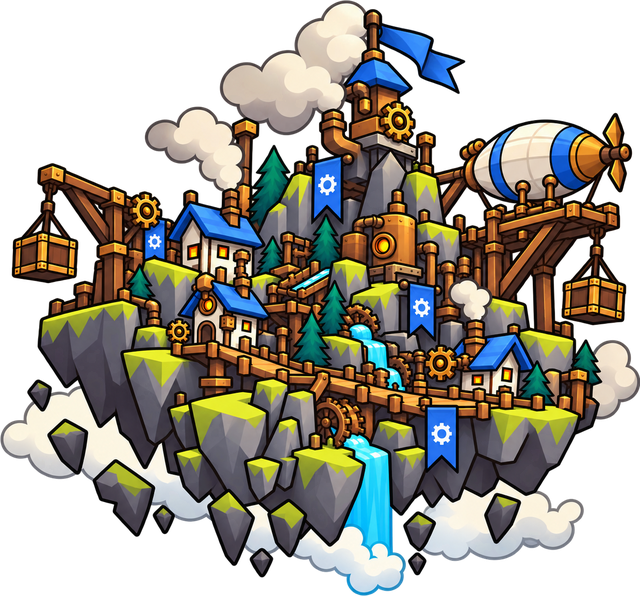
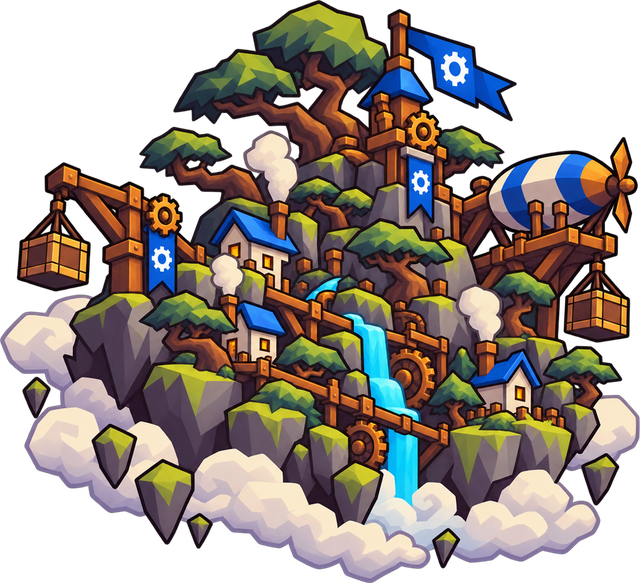
Actualizacion 27/10/2026 22:58:38,60

diff --git a/index.html b/index.html
@@ -9,7 +9,7 @@
      existe para tomar el control del gesto. -->
 <meta name="viewport" content="width=device-width, initial-scale=1.0, maximum-scale=1.0, user-scalable=no, viewport-fit=cover">
 <title>Gnomore Gnomes</title>
-<link rel="stylesheet" href="css/style.css?v=1793600800">
+<link rel="stylesheet" href="css/style.css?v=1793601000">
 <link rel="stylesheet" href="css/mobile.css?v=1793502810">
 <link rel="stylesheet" href="assets/fonts/phosphor/regular.css">
 <link rel="stylesheet" href="assets/fonts/phosphor/light.css">
@@ -108,7 +108,7 @@
          de juego de rol" — contenedor propio (no .option-list, pensado
          para la lista vertical y estrecha de modo/rivales) para las
          tarjetas de raza, más anchas y en fila (ver .race-card-list en
-         css/style.css?v=1793600800 y renderRaceCard en js/newgame-flow.js). -->
+         css/style.css?v=1793601000 y renderRaceCard en js/newgame-flow.js). -->
     <div class="race-card-list" id="race-list"></div>
   </main>
 
@@ -168,7 +168,7 @@
   <script src="js/tooltip.js?v=1791042260"></script>
   <script src="js/attackcursor.js?v=1793000010"></script>
   <script src="js/shadows.js?v=1793500040"></script>
-  <script src="js/units.js?v=1793600800"></script>
+  <script src="js/units.js?v=1793601000"></script>
   <script src="js/bloodsplat.js?v=1791412743"></script>
   <script src="js/movement.js?v=1791413601"></script>
   <script src="js/combat.js?v=1791412743"></script>
@@ -208,7 +208,7 @@
   <script src="js/abilities.js?v=1791500005"></script>
   <script src="js/actionbtn-feedback.js?v=1793501300"></script>
   <script src="js/abilities-surcanubes.js?v=1793200006"></script>
-  <script src="js/abilities-enmurallado.js?v=1793600800"></script>
+  <script src="js/abilities-enmurallado.js?v=1793601000"></script>
   <script src="js/ai-abilities.js?v=1793600100"></script>
   <script src="js/mushrooms.js?v=1793500510"></script>
   <script src="js/firebase-config.js"></script>
@@ -227,7 +227,7 @@
   <script src="js/tutorial-texts.js?v=1793502100"></script>
   <script src="js/tutorial-levels.js?v=1793501500"></script>
   <script src="js/tutorial-pad.js?v=1793502100"></script>
-  <script src="js/version.js?v=1793600800"></script>
+  <script src="js/version.js?v=1793601000"></script>
   <script src="js/menu.js?v=1793200002"></script>
   <script src="js/appupdate.js?v=1793500090"></script>
   <script src="js/assetlist.js?v=1793600100"></script>

diff --git a/js/levels.js b/js/levels.js
@@ -38,7 +38,7 @@ const LEVELS = [
     flavorKey: "level_hurrycrane_village_flavor",
     featureKeys: ["level_hurrycrane_village_f1", "level_hurrycrane_village_f2", "level_hurrycrane_village_f3"],
     featureIcons: ["ph-egg", "ph-target", "ph-trophy"],
-    islandImg: "assets/niveles/isla_hurrycrane_village.png",
+    islandImg: "assets/niveles/isla_hurrycrane_village.png?v=2",
     logoImg: "assets/niveles/logo_hurrycrane_village.png",
     color: "#7fc8e8",
     available: true,
@@ -49,8 +49,8 @@ const LEVELS = [
     flavorKey: "level_wallforge_flavor",
     featureKeys: [],
     featureIcons: [],
-    islandImg: "assets/niveles/isla_wallforge.png",
-    logoImg: "assets/niveles/isla_wallforge.png",
+    islandImg: "assets/niveles/isla_wallforge.png?v=2",
+    logoImg: "assets/niveles/isla_wallforge.png?v=2",
     color: "#ff8a1f",
     available: false,
   },

diff --git a/js/version.js b/js/version.js
@@ -12,9 +12,13 @@
    ORDEN: lo más reciente SIEMPRE arriba: las entradas de la más nueva a la más
    antigua y, dentro de una entrada, el último cambio el primero de la lista. */
 
-const GG_VERSION = "v.001605";
+const GG_VERSION = "v.001607";
 
 const GG_CHANGELOG = [
+  { v: "v.001607", date: "27/10/2026", title: "Nueva isla de HurryCrane", items: [
+    "Fortaleza WallForge: nueva ilustración de la isla (con los estandartes naranjas de Reforjados) en la selección de escenario",
+    "Poblado HurryCrane: nueva ilustración de la isla en la selección de escenario",
+  ] },
   { v: "v.001605", date: "26/10/2026", title: "Muro Aplastante en área", items: [
     "Colores de escenario: Colinas Rock'n Troll en rojo y Fortaleza WallForge en naranja (el de Reforjados)",
     "El Equipo Forjamuros pasa a llamarse Equipo Reforjados",

diff --git a/js/tutorial-levels.js b/js/tutorial-levels.js
@@ -54,7 +54,7 @@ Object.assign(Tutorial, {
       id: "crane",
       name: "Poblado HurryCrane",
       color: "#7fc8e8",
-      island: "assets/niveles/isla_hurrycrane_village.png",
+      island: "assets/niveles/isla_hurrycrane_village.png?v=2",
       flavor: "Las reglas propias del Poblado HurryCrane.",
       feats: [
         ["ph-egg", "Huevo de Grulla: cada rebote lo carga hasta explotar"],
